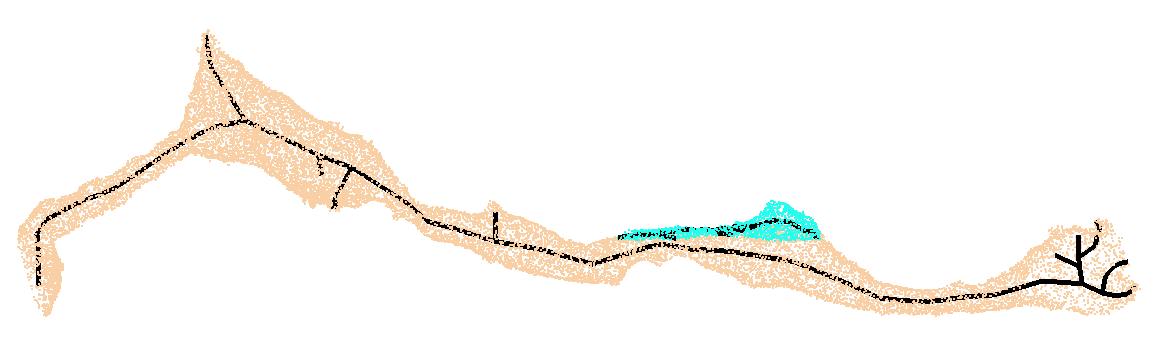
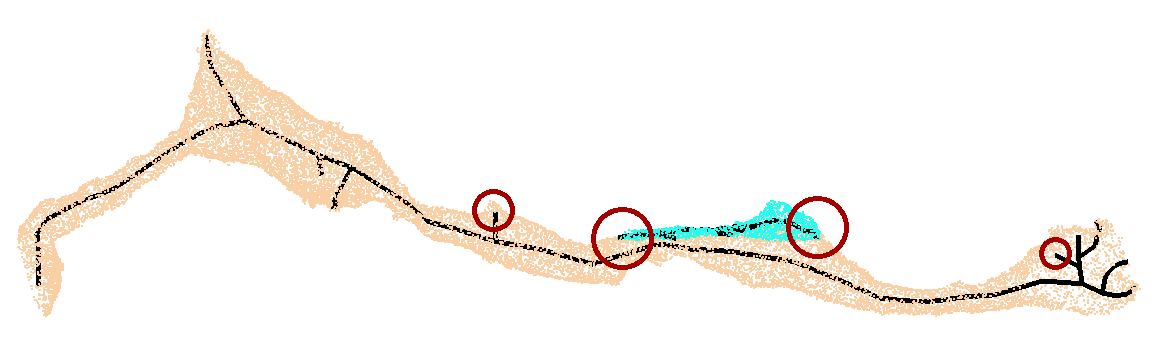
papers: updated figures and generated results

diff --git a/papers/eccv2018/4_results.tex b/papers/eccv2018/4_results.tex
@@ -63,18 +63,14 @@ We present additional analysis of the skeletonization parameters in the suppleme
 \begin{table}
 	\centering
 	\small
+	\setlength{\tabcolsep}{0.75em}
 	\begin{tabular}{c c c c} \hline
 		\textbf{Dataset} & \textbf{Segment Adjacency} & \textbf{Skeleton Pruning} & \textbf{Missed Split Errors} \\ \hline
-		Kasthuri Training & 763 / 21,242 & 753 / 3,459 & \\
-		Kasthuri Vol. 2 & 1,010 / 26,073 & 904 / 4,327 & \\
-		FlyEM Vol. 1 & 269 / 14,875 & 262 / 946 & \\
-		FlyEM Vol. 2 & 270 / 16,808 & 285 / 768 & \\ \hline
-		%		Kasthuri Vol. 1 & 763 / 21242 (3.47\%) & 753 / 3459 (17.88\%) \\
-		%		Kasthuri Vol. 2 & 1010 / 26073 (3.73\%) & 904 / 4327 (17.28\%) \\
-		%		FlyEM Vol. 1 & 269 / 14875 (1.78\%) & 262 / 946 (21.69\%) \\
-		%		FlyEM Vol. 2 & 270 / 16808 (1.58\%) & 285 / 768 (27.07\%)\\ \hline
+		Kasthuri &  & & \\
+		FlyEM &  &  & \\
+		FIB-25 &  & & \\ \hline
 	\end{tabular}
-	\caption{The results of our graph pruning approach compared to the baseline graph with all adjacent regions. We show the number of true merge locations (e.g., 763) compared to total number of edges in the graph (e.g., 21,242) for each case. The number of missed splits corresponds to the number of split errors that our method misses compared to an adjacency matrix.}
+	\caption{The results of our graph pruning approach compared to the baseline graph with all adjacent regions. We show the number of true merge locations (e.g., \TODO{XXX}) compared to total number of edges in the graph (e.g., \TODO{XXXXX}) for each case. The number of missed splits corresponds to the number of split errors that our method misses compared to an adjacency matrix.}
 	\label{table:skeletonization}
 \end{table}
 
@@ -94,7 +90,7 @@ There are on average $\TODO{XX}$ such examples in our datasets, corresponding to
 \begin{figure}[t!]
 	\centering
 	\includegraphics[width=0.45\linewidth]{./figures/merge_candidate1.png}		\includegraphics[width=0.45\linewidth]{./figures/merge_candidate2.png}
-	\caption{Two false negative example of our method due to graph pruning. The distance between the endpoints (circled) of the two segments is too far to be flagged as a merge candidate.}
+	\caption{Two example segment pairs that we incorrectly prune from our graph. The distances between the circled endpoints are greater than our thresholds.}
 	\label{fig:skeleton-results}
 \end{figure}
 
@@ -103,7 +99,7 @@ There are on average $\TODO{XX}$ such examples in our datasets, corresponding to
 \subsubsection{Inference Augmentation}
 
 Data augmentation at test time can improve accuracy results~\cite{zeng2017deepem3d,lee2017superhuman}.
-When computing the probability to merge two segments, we input the initial segment into our CNN as well as \TODO{XX} randomly rotated and flipped examples (in the same manner as training augmentation).
+When computing the probability to merge two segments, we input the initial segment into our CNN as well as 3 randomly rotated and flipped examples (in the same manner as training augmentation).
 This produces some additional increase in overall accuracy (Figure ~\ref{fig:receiver-operating-characteristic}).
 The supplemental material contains experiments showing the trade-offs between increased accuracy and runtime when using these augmentation strategies.
 
@@ -140,6 +136,7 @@ Over the three testing datasets, applying a graph-based partitioning strategy re
 \begin{table}[h]
 	\centering
 	\small
+	\setlength{\tabcolsep}{0.3em}
 	\begin{tabular}{c c c c | c c c} \hline
 		& \multicolumn{3}{c}{\textbf{Multicut}} & \multicolumn{3}{c}{\textbf{Lifted Multicut}} \\ \hline
 		\textbf{Dataset} & $\Delta$ \textbf{Precision} & $\Delta$ \textbf{Recall} & $\Delta$ \textbf{Accuracy} & $\Delta$ \textbf{Precision} & $\Delta$ \textbf{Recall} & $\Delta$ \textbf{Accuracy} \\ \hline

diff --git a/papers/eccv2018/3_evaluation.tex b/papers/eccv2018/3_evaluation.tex
@@ -63,21 +63,21 @@ Although the voxels vary between different datasets, the physical space remains 
 
 We use half of the Kasthuri and FlyEM datasets\footnote{Since the FlyEM datasets have significantly fewer examples, we initialize the network with the weights from the Kasthuri training and have an initial learning rate of $10^{-4}$.} for training and validation. 
 We train on 80\% of the potential merge candidates for this volume.
-We validate the CNN classifier on the remaining 20\% of candidates. 
+We validate the CNN classifier on the remaining 20\% of the candidates. 
 
 
 We consider networks with varying input sizes, optimizers, loss functions, filter sizes, learning rates, and activation functions. 
 The supplemental material includes information on the experiments that determined these final parameters. 
 We provide all parameters of the final network in the supplemental material. 
-There are \TODO{X,XXX,XXX} learnable parameters in our final architecture. 
+There are 2,313,969 learnable parameters in our final architecture. 
 All the parameters are randomly initialized following the Xavier uniform distribution~\cite{glorot2010understanding}. 
-Training concluded after \TODO{XXX} epochs.
+Training concluded after 1000 epochs.
 
 
 \subsubsection{Training Augmentation.}
 
 Since our input is an existing segmentation of the EM images, there are very few training examples compared to per-pixel classifiers that can train on a unique window for each voxel. 
-The Kasthuri dataset represents a region of brain over $\SI[product-units=single]{800}{\micro\meter}^3$ in volume and only yields \TODO{700} positive merge examples and \TODO{7000} negative ones.
+The Kasthuri dataset represents a region of brain over $\SI[product-units=single]{800}{\micro\meter}^3$ in volume and only yields 640 positive merge examples and 4821 negative ones.
 To avoid overfitting our deep networks, we apply the following augmentations on the training examples.
 During a single batch, we randomly select ten positive and negative examples. 
 With probability 0.5, the example is reflected across the $xy$-plane. 

diff --git a/papers/eccv2018/2_method.tex b/papers/eccv2018/2_method.tex
@@ -57,7 +57,7 @@ We provide further analysis of this strategy in the supplemental material.
 \end{figure}
 
 A typical approach for generating edges produces one between all adjacent segments. Two segments $l_1$ and $l_2$ are considered adjacent if there is a pair of adjacent voxels with one labeled $l_1$ and the other labeled $l_2$.
-For example, pixel-based agglomeration methods such as mean agglomeration \TODO{CITE} or waterz \TODO{CITE} consider all pairs of adjacent segments for merging.
+For example, pixel-based agglomeration methods such as mean agglomeration~\cite{lee2017superhuman} or waterz~\cite{funke2017deep} consider all pairs of adjacent segments for merging.
 However, this method produces too many edges in the graph for graph-based optimization approaches. 
 We identify a smaller number of pairs of segments to consider as graph edges using the following approach.
 
